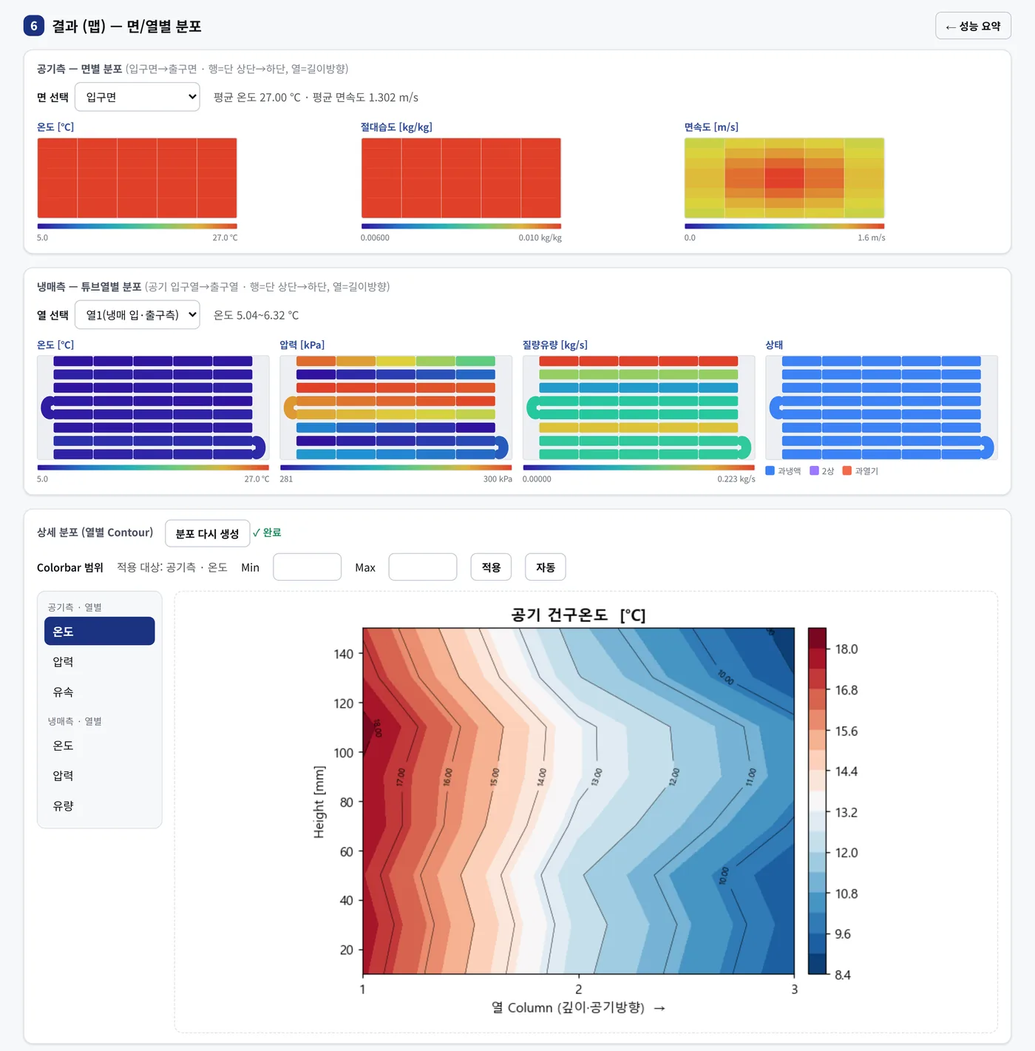
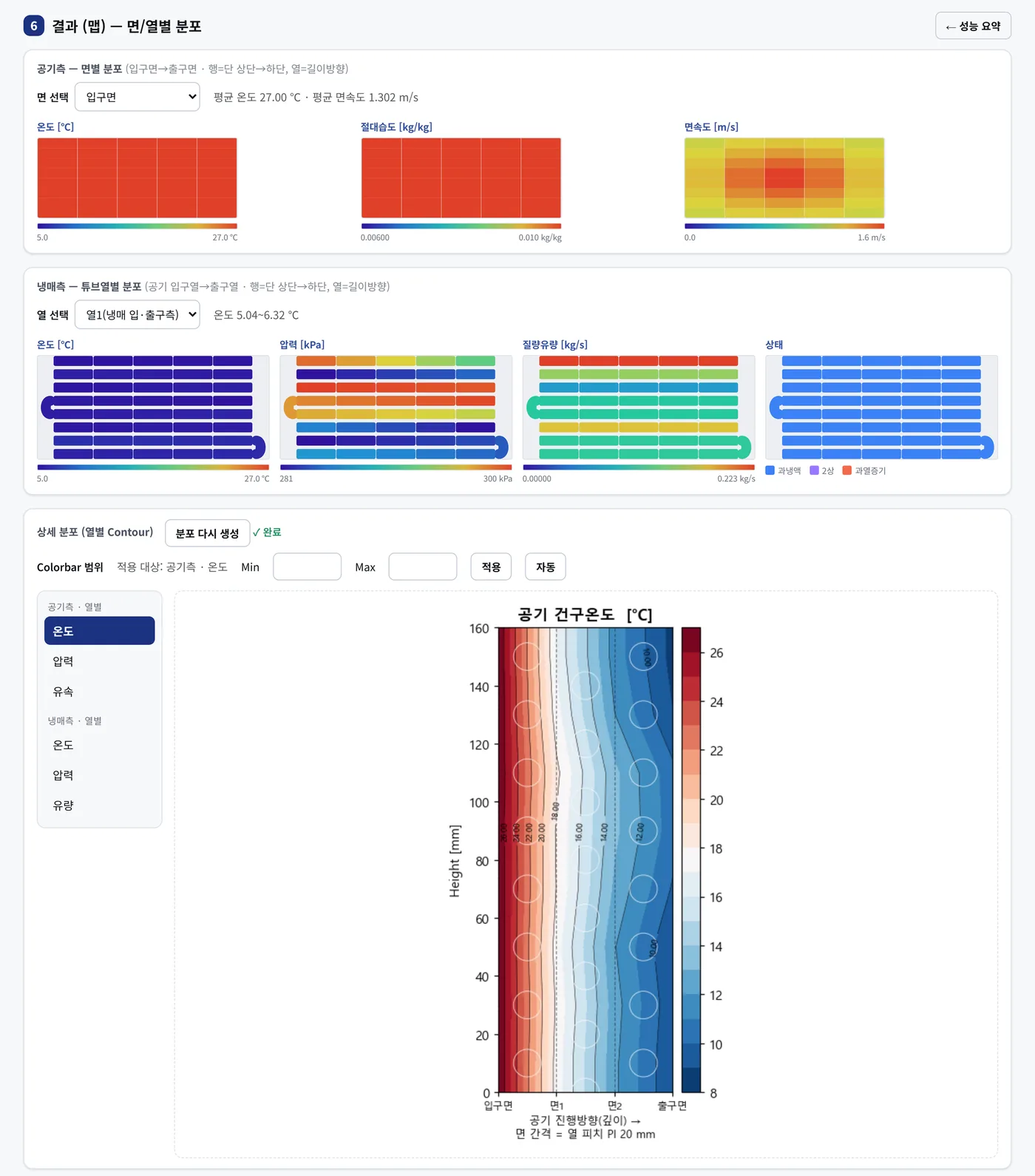
등록 없이 둘러보기·시작 화면 발급 요청 안내 · 체험판 표기 삭제 · 결과·모바일·유체 화면 교체
- 히어로·문의 절 안내: 접근코드 문의 → 시작 화면 [등록 없이 둘러보기] · [접근코드 발급 요청]
- 문의 절 안내문에서 '평가·교육용 체험판' 표기 삭제(이용 조건 줄·라이선스 문서는 유지)
- 화면 교체: ⑤ 결과 (성능)(KPI 3장·냉매 상태 과냉·출구 mf) · ⑥ 결과 (맵)(과열증기 범례·실제 치수 등고선)
  · ③ 유체 조건('템플릿' 표기·띄어쓰기) · 모바일 홈(인사말·현재 설계 카드 없음)
- 풍량 분포 변수에 C(중심이동 비율) 추가 · 튜토리얼 안내 한 줄 · '핀 피치' 띄어쓰기
- 영문 단계 이름을 앱과 같게(HX Dimension · Circuit · Fluid · Air Distribution · Result (Performance) · Result (Map))
- 모바일 흐름 절 설명문에 i18n 키(영문 전환 시 한국어로 남던 문제) · README 작동유체 70종

diff --git a/site-i18n.js b/site-i18n.js
@@ -30,7 +30,7 @@
     'hero.cta.app': 'Open the program ↗',
     'hero.cta.contact': 'Contact · collaboration',
     'hero.cta.features': 'See the features',
-    'hero.applink': '<b>hexcoil.kr</b> — runs in your browser, with nothing to install. An <b>access code</b> is required; send us your affiliation and intended use through <a href="#contact">Contact</a> and we will issue one.',
+    'hero.applink': '<b>hexcoil.kr</b> — runs in your browser, with nothing to install. Choose <b>Look around without registering</b> on the start page to see the screens and an example result first; running a calculation needs an <b>access code</b>. Enter your company, name and e-mail under [Request an access code] on the start page and we will e-mail one to you.',
 
     'stats.u.kind': '&nbsp;fluids', 'stats.u.case': '&nbsp;cases', 'stats.u.kind2': '&nbsp;models', 'stats.u.dir': '&nbsp;directions',
     'stats.fluids': 'Working fluids supported<br>natural refrigerants · air · brines included',
@@ -39,55 +39,55 @@
     'stats.grid': 'Grid-based analysis<br>local state in every cell',
 
     'flow.h': 'Design review finished in six steps',
-    'flow.p': 'Work down the order on the left of the screen and you go from geometry input to distribution maps.',
-    'step.geo.h': 'Geometry', 'step.geo.p': 'Tube and fin geometry<br>rows · tiers · pitches',
-    'step.cir.h': 'Refrigerant circuit', 'step.cir.p': 'Drag the tubing<br>split · merge',
-    'step.flu.h': 'Fluid conditions', 'step.flu.p': 'Air inlet state<br>70 working fluids',
-    'step.air.h': 'Airflow distribution', 'step.air.p': 'Fan non-uniformity<br>2D · 3D preview',
-    'step.res1.h': 'Results (performance)', 'step.res1.p': 'Performance summary<br>capacity · pressure drop',
-    'step.res2.h': 'Results (maps)', 'step.res2.p': 'Face/row distribution<br>colour maps',
+    'flow.p': 'Work down the order on the left of the screen and you go from geometry input to distribution maps. New to it? A <b>guided tutorial</b> (Korean · English) points you through each screen.',
+    'step.geo.h': 'HX Dimension', 'step.geo.p': 'Tube and fin geometry<br>rows · tiers · pitches',
+    'step.cir.h': 'Circuit', 'step.cir.p': 'Drag the tubing<br>split · merge',
+    'step.flu.h': 'Fluid', 'step.flu.p': 'Air inlet state<br>70 working fluids',
+    'step.air.h': 'Air Distribution', 'step.air.p': 'Fan non-uniformity<br>2D · 3D preview',
+    'step.res1.h': 'Result (Performance)', 'step.res1.p': 'Performance summary<br>capacity · pressure drop',
+    'step.res2.h': 'Result (Map)', 'step.res2.p': 'Face/row distribution<br>colour maps',
 
     'feat.h': 'Design freely,<br>read the results at a glance.',
     'feat.p': 'Build the geometry and the circuitry yourself, then compute performance under the conditions you set.',
 
-    'f1.h': 'Geometry — type a dimension, see it in 3D',
+    'f1.h': 'HX Dimension — type a dimension, see it in 3D',
     'f1.ul': '<li>Enter tube length, rows, tiers, pitches and outer diameter and the <b>3D model updates immediately</b>.</li>'
            + '<li>It is rendered to true scale, with L · W · H · OD and fin pitch shown as dimension lines.</li>'
            + '<li>The staggered layout and the tube cross-section (inner diameter) are drawn as well, so you can <b>check the tube arrangement by eye</b>.</li>'
            + '<li>Choose plain or louver fins and the louver dimensions (Lp · Lh) appear together with the matching correlations.</li>',
-    'f1.cap': '① Geometry — L · W · H · OD and fin pitch in 3D',
+    'f1.cap': '① HX Dimension — L · W · H · OD and fin pitch in 3D',
 
-    'f2.h': 'Refrigerant circuit — drawn by dragging',
+    'f2.h': 'Circuit — drawn by dragging',
     'f2.ul': '<li>Drag tubes to connect them and build <b>splits and merges</b> (acyclic circuits).</li>'
            + '<li>Loops and duplicate connections are checked as you draw, and tubes left unconnected become <b>independent single-tube circuits</b> automatically.</li>'
            + '<li>Flow distribution is either <b>ΔP equalisation (iterative self-distribution)</b> or an equal split.</li>',
-    'f2.cap': '② Refrigerant circuit — colour = circuit · ★ = inlet · U-bends solid/dashed',
+    'f2.cap': '② Circuit — colour = circuit · ★ = inlet · U-bends solid/dashed',
 
-    'f3.h': 'Fluid conditions — 70 working fluids',
+    'f3.h': 'Fluid — 70 working fluids',
     'f3.ul': '<li>The air inlet state is set from the dry-bulb temperature plus one of <b>wet-bulb temperature, relative humidity, humidity ratio, enthalpy or dew point</b>.</li>'
            + '<li>Pick the working fluid from <b>70</b> (water, air, R717, R744, R290, R410A, R134a, R1234yf, <b>EG/PG aqueous brines</b> and more) — properties come from CoolProp.</li>'
            + '<li>The fluid inlet is specified in one of four ways: <b>(1) pressure · temperature</b>, <b>(2) pressure · vapour quality</b>, <b>(3) pressure · enthalpy</b>, <b>(4) outlet pressure · enthalpy</b> — water uses all four just like a refrigerant, while brines use (1) only.</li>'
            + '<li>Single-phase and two-phase heat transfer and pressure drop correlations are chosen separately.</li>',
-    'f3.cap': '③ Fluid conditions — five ways to set the air inlet · 70 working fluids',
+    'f3.cap': '③ Fluid — five ways to set the air inlet · 70 working fluids',
 
-    'f4.h': 'Airflow distribution — fan non-uniformity included',
-    'f4.ul': '<li>The fan discharge profile — strong at the centre, weak at the edges — is reproduced with a <b>Gaussian model</b> (σ · floor · β).</li>'
+    'f4.h': 'Air Distribution — fan non-uniformity included',
+    'f4.ul': '<li>The fan discharge profile — strong at the centre, weak at the edges — is reproduced with a <b>Gaussian model</b> (σ · floor · β), and the centre shift ratio C moves the peak up or down.</li>'
            + '<li>Air flow is applied cell by cell across the inlet face.</li>'
            + '<li>Check the profile in the 2D/3D preview before it goes into the calculation.</li>',
-    'f4.cap': '④ Airflow distribution — 3D face velocity at the coil inlet · non-uniformity tuned with fan σ · floor · β',
+    'f4.cap': '④ Air Distribution — 3D face velocity at the coil inlet · non-uniformity tuned with fan σ · floor · β · C',
 
     'f5.h': 'Performance summary — prediction cell by cell',
     'f5.ul': '<li>The coil is <b>divided into a grid in three directions</b> (height, depth and length) and solved cell by cell.</li>'
            + '<li>Local heat transfer and pressure drop are computed for each cell.</li>'
            + '<li>Under wet-surface conditions the <b>condensate (dehumidification) rate</b> is obtained.</li>'
            + '<li>Results are presented together with a psychrometric chart, a P–h diagram and the flow split per circuit.</li>',
-    'f5.cap': '⑤ Results (performance) — summary · capacity · pressure drop · condensate',
+    'f5.cap': '⑤ Result (Performance) — summary · capacity · pressure drop · condensate',
 
-    'f6.h': 'Results (maps) — colour maps by face and row',
+    'f6.h': 'Result (Map) — colour maps by face and row',
     'f6.ul': '<li>Distributions are shown from the air inlet face through to the outlet face, row by row along the refrigerant tubes.</li>'
            + '<li>Temperature, humidity, face velocity, pressure, flow rate and phase are colour-coded so you can <b>see at a glance where the distribution differs most</b>.</li>'
            + '<li>Choose a face or a row, and redraw the detail as a contour plot.</li>',
-    'f6.cap': '⑥ Results (maps) — distribution colour maps by face and row',
+    'f6.cap': '⑥ Result (Map) — distribution colour maps by face and row',
 
     'mob.h': 'The whole design on a phone',
     'mob.p': 'The phone screen edits <b>geometry, circuitry, fluids, correlations and airflow</b> and shows the <b>performance summary and the face/row distributions</b>. Pick an example case and everything is filled in at once. It runs <b>the same calculation engine as the desktop</b>, so the results do not differ. Add it to your home screen and it opens like an app, without an address bar.',
@@ -144,8 +144,8 @@
     'ct.who2': 'Chanho Song, Principal Researcher',
     'ct.ask': '<li>Institution · department</li><li>Your role</li><li>Intended use (design review / research / teaching)</li>',
     'ct.mail': 'Send an e-mail',
-    'ct.app': 'Program address <a href="https://hexcoil.kr" target="_blank" rel="noopener">hexcoil.kr</a> — an <b>access code</b> is required to sign in. Send us a message above and we will issue one.',
-    'ct.trial': 'The edition offered today is an <strong style="color:#fff">evaluation and educational trial</strong> — for feature review, research and teaching, provided through an access code with a limited number of calculations and a limited validity period. Commercial use such as product design or bidding requires a separate licence agreement.',
+    'ct.app': 'Program address <a href="https://hexcoil.kr" target="_blank" rel="noopener">hexcoil.kr</a> — take a look straight away with <b>Look around without registering</b>. The <b>access code</b> needed for calculations can be requested on the start page under [Request an access code].',
+    'ct.trial': 'Access codes are issued for feature review, research and teaching, with a set number of calculations and a validity period. Commercial use such as product design or bidding requires a separate licence agreement.',
     'ct.work.h': 'What we can do together',
     'ct.w.pred.h': 'Performance prediction review',
     'ct.w.pred.p': 'We predict the performance of your heat exchanger geometry and interpret the results with you.',

diff --git a/m.html b/m.html
@@ -276,9 +276,7 @@ html[lang="en"] .hdr .ctr, html[lang="en"] .hdr .div{display:none}
          data-i18n="hero.cta.app">프로그램 접속 ↗</a>
       <a class="btn btn-ghost" href="#contact" data-i18n="hero.cta.contact">문의 · 협력 제안</a>
       <a class="btn btn-ghost" href="#features" data-i18n="hero.cta.features">기능 살펴보기</a>
-      <p class="applink" data-i18n="hero.applink"><b>hexcoil.kr</b> — 설치 없이 브라우저에서 바로 씁니다.
-         접속에는 <b>접근코드</b>가 필요하며, 아래 <a href="#contact">문의</a>로 소속·사용 목적을
-         보내주시면 발급해 드립니다.</p>
+      <p class="applink" data-i18n="hero.applink"><b>hexcoil.kr</b> — 설치 없이 브라우저에서 바로 씁니다. 시작 화면의 <b>등록 없이 둘러보기</b>로 화면과 예제 결과를 먼저 살펴보실 수 있고, 계산을 실행하려면 <b>접근코드</b>가 필요합니다. 시작 화면의 [접근코드 발급 요청]에 회사·이름·이메일을 적어 주시면 이메일로 보내드립니다.</p>
     </div>
   </div>
 
@@ -297,7 +295,7 @@ html[lang="en"] .hdr .ctr, html[lang="en"] .hdr .div{display:none}
     <div class="wrap">
       <p class="kicker">Workflow</p>
       <h2 data-i18n="flow.h">여섯 단계로 끝나는 설계 검토</h2>
-      <p class="sub">화면 왼쪽 순서대로 진행하면 형상 입력에서 분포 해석까지 이어집니다.</p>
+      <p class="sub" data-i18n="flow.p">화면 왼쪽 순서대로 진행하면 형상 입력에서 분포 해석까지 이어집니다. 처음이라면 화면 위를 짚어 가며 안내하는 <b>튜토리얼</b>(한국어·English)을 따라 해 보세요.</p>
       <div class="steps">
         <div class="step"><div class="num">1</div><h3 data-i18n="step.geo.h">형상 입력</h3><p data-i18n="step.geo.p">튜브·핀 형상<br>열수·단수·피치</p></div>
         <div class="step"><div class="num">2</div><h3 data-i18n="step.cir.h">냉매 회로</h3><p data-i18n="step.cir.p">배관 드래그<br>분지·합지</p></div>
@@ -328,14 +326,14 @@ html[lang="en"] .hdr .ctr, html[lang="en"] .hdr .div{display:none}
         <h3 data-i18n="f1.h">형상 입력 — 치수를 넣으면 3D로 즉시 확인</h3>
         <ul data-i18n="f1.ul">
           <li>튜브 길이·열수·단수·피치·외경을 넣으면 <b>3D 형상이 곧바로 갱신</b>됩니다.</li>
-          <li>실제 치수 비율로 렌더링하고 L·W·H·OD·핀피치를 치수선으로 함께 표시합니다.</li>
+          <li>실제 치수 비율로 렌더링하고 L·W·H·OD·핀 피치를 치수선으로 함께 표시합니다.</li>
           <li>엇갈림 배열과 관 단면(내경)까지 그려 <b>배관 배열을 눈으로 확인</b>합니다.</li>
           <li>평판핀·루버핀을 고르면 루버 치수(Lp·Lh)와 해당 상관식이 함께 나타납니다.</li>
         </ul>
         <figure class="shot">
           <img src="assets/dimension.webp" width="1200" height="940" loading="lazy"
                alt="형상 입력 화면 — 핀튜브 열교환기가 3차원으로 렌더링되고 길이·폭·높이·외경 치수선이 표시된다.">
-          <figcaption data-i18n="f1.cap">① 형상 입력 — L · W · H · OD · 핀피치를 3D로 확인</figcaption>
+          <figcaption data-i18n="f1.cap">① 형상 입력 — L · W · H · OD · 핀 피치를 3D로 확인</figcaption>
         </figure>
       </div>
 
@@ -374,7 +372,7 @@ html[lang="en"] .hdr .ctr, html[lang="en"] .hdr .div{display:none}
         <span class="idx">4</span>
         <h3 data-i18n="f4.h">풍량 분포 — 팬 비균일 반영</h3>
         <ul data-i18n="f4.ul">
-          <li>중앙은 강하고 가장자리는 약한 팬 토출 분포를 <b>가우시안 모델</b>(σ·floor·β)로 모사합니다.</li>
+          <li>중앙은 강하고 가장자리는 약한 팬 토출 분포를 <b>가우시안 모델</b>(σ·floor·β)로 모사하고, 중심이동 비율 C로 분포의 중심을 위아래로 옮깁니다.</li>
           <li>입구면 셀별로 공기 유량을 차등 적용합니다.</li>
           <li>2D·3D 프리뷰로 분포를 확인한 뒤 계산에 넣습니다.</li>
         </ul>
@@ -384,7 +382,7 @@ html[lang="en"] .hdr .ctr, html[lang="en"] .hdr .div{display:none}
                 화면 전체를 오리면 오른쪽 아래가 크게 빈다 → 3D 원본을 쓴다. -->
           <img src="assets/airflow.webp" width="1400" height="894" loading="lazy"
                alt="풍량 분포 3D 화면 — 코일 입구면의 면속도가 3차원 곡면으로 표시되고 중앙이 빠르고 가장자리가 느리다.">
-          <figcaption data-i18n="f4.cap">④ 풍량 분포 — 코일 입구면 면속도 3D · 팬 σ · floor · β 로 비균일 조절</figcaption>
+          <figcaption data-i18n="f4.cap">④ 풍량 분포 — 코일 입구면 면속도 3D · 팬 σ · floor · β · C로 비균일 조절</figcaption>
         </figure>
       </div>
 
@@ -413,7 +411,7 @@ html[lang="en"] .hdr .ctr, html[lang="en"] .hdr .div{display:none}
           <li>면/열별을 골라 보고, 상세 분포는 컨투어로 다시 그립니다.</li>
         </ul>
         <figure class="shot">
-          <img src="assets/result2.webp" width="1400" height="1421" loading="lazy"
+          <img src="assets/result2.webp" width="1400" height="1590" loading="lazy"
                alt="면·열별 분포 화면 — 열교환기 단면이 온도에 따라 색으로 구분된 컬러맵으로 표시된다.">
           <figcaption data-i18n="f6.cap">⑥ 결과 (맵) — 면/열별 분포 컬러맵</figcaption>
         </figure>
@@ -527,15 +525,8 @@ html[lang="en"] .hdr .ctr, html[lang="en"] .hdr .div{display:none}
       </ul>
       <a class="btn btn-onblue" href="mailto:jwyoo@kimm.re.kr,sch@kimm.re.kr?subject=%5BKIMM-HEX%20Coil%5D%20%EB%AC%B8%EC%9D%98" data-i18n="ct.mail">메일 보내기</a>
       <!--  2026-09-17: 상시 서버 주소 — 메일을 쓰기 전에 주소가 먼저 보이게. -->
-      <p class="appaddr" data-i18n="ct.app">
-        프로그램 주소 <a href="https://hexcoil.kr" target="_blank" rel="noopener">hexcoil.kr</a> —
-        접속에는 <b>접근코드</b>가 필요합니다. 위로 문의를 보내주시면 발급해 드립니다.
-      </p>
-      <p class="trial" data-i18n="ct.trial">
-        현재 제공되는 판은 <strong>평가·교육용 체험판</strong>입니다 —
-        기능 확인·연구·교육 목적으로, 계산 횟수와 유효기간이 제한된 접속코드로 제공됩니다.
-        제품 설계·수주 등 영리 목적 사용은 별도 이용 계약이 필요합니다.
-      </p>
+      <p class="appaddr" data-i18n="ct.app">프로그램 주소 <a href="https://hexcoil.kr" target="_blank" rel="noopener">hexcoil.kr</a> — <b>등록 없이 둘러보기</b>로 바로 살펴보실 수 있습니다. 계산에 필요한 <b>접근코드</b>는 시작 화면의 [접근코드 발급 요청]으로 받으실 수 있습니다.</p>
+      <p class="trial" data-i18n="ct.trial">접근코드는 기능 확인·연구·교육 목적으로 발급되며, 계산 횟수와 유효기간이 정해져 있습니다. 제품 설계·수주 등 영리 목적 사용은 별도 이용 계약이 필요합니다.</p>
       <h3 class="with" data-i18n="ct.work.h">함께 할 수 있는 일</h3>
       <div class="cardbox"><h3 data-i18n="ct.w.pred.h">성능 예측 검토</h3><p data-i18n="ct.w.pred.p">보유 열교환기 형상의 성능을 예측하고 결과를 함께 해석합니다.</p></div>
       <div class="cardbox"><h3 data-i18n="ct.w.impr.h">설계 개선</h3><p data-i18n="ct.w.impr.p">회로 배열 대안을 비교해 개선 방향을 찾습니다.</p></div>

diff --git a/index.html b/index.html
@@ -463,10 +463,7 @@ h2{
         <a class="btn btn-ghost" href="#contact" data-i18n="hero.cta.contact">문의 · 협력 제안</a>
         <a class="btn btn-ghost" href="#features" data-i18n="hero.cta.features">기능 살펴보기</a>
       </div>
-      <p class="applink" data-i18n="hero.applink">
-        <b>hexcoil.kr</b> — 설치 없이 브라우저에서 바로 씁니다. 접속에는 <b>접근코드</b>가 필요하며,
-        아래 <a href="#contact">문의</a>로 소속·사용 목적을 보내주시면 발급해 드립니다.
-      </p>
+      <p class="applink" data-i18n="hero.applink"><b>hexcoil.kr</b> — 설치 없이 브라우저에서 바로 씁니다. 시작 화면의 <b>등록 없이 둘러보기</b>로 화면과 예제 결과를 먼저 살펴보실 수 있고, 계산을 실행하려면 <b>접근코드</b>가 필요합니다. 시작 화면의 [접근코드 발급 요청]에 회사·이름·이메일을 적어 주시면 이메일로 보내드립니다.</p>
       <!--  2026-09-03(7차): 히어로의 **결과 화면 컷(assets/hero.webp = Result ① 성능요약)** 을 뺐다.
             모바일 판(m.html)에는 없던 것이라 두 판의 읽는 순서가 어긋났고, 기능 절에서
             ⑤ 성능요약 화면을 다시 보여주므로 같은 그림이 지면 위아래로 두 번 나왔다.
@@ -491,7 +488,7 @@ h2{
       <div class="sec-head center">
         <p class="kicker">Workflow</p>
         <h2 data-i18n="flow.h">여섯 단계로 끝나는 설계 검토</h2>
-        <p data-i18n="flow.p">화면 왼쪽 순서대로 진행하면 형상 입력에서 분포 해석까지 이어집니다.</p>
+        <p data-i18n="flow.p">화면 왼쪽 순서대로 진행하면 형상 입력에서 분포 해석까지 이어집니다. 처음이라면 화면 위를 짚어 가며 안내하는 <b>튜토리얼</b>(한국어·English)을 따라 해 보세요.</p>
       </div>
       <div class="steps">
         <div class="step"><div class="num">1</div><h3 data-i18n="step.geo.h">형상 입력</h3><p data-i18n="step.geo.p">튜브·핀 형상<br>열수·단수·피치</p></div>
@@ -526,7 +523,7 @@ h2{
           <h3 data-i18n="f1.h">형상 입력 — 치수를 넣으면 3D로 즉시 확인</h3>
           <ul data-i18n="f1.ul">
             <li>튜브 길이·열수·단수·피치·외경을 넣으면 <b>3D 형상이 곧바로 갱신</b>됩니다.</li>
-            <li>실제 치수 비율로 렌더링하고 L·W·H·OD·핀피치를 치수선으로 함께 표시합니다.</li>
+            <li>실제 치수 비율로 렌더링하고 L·W·H·OD·핀 피치를 치수선으로 함께 표시합니다.</li>
             <li>엇갈림 배열과 관 단면(내경)까지 그려 <b>배관 배열을 눈으로 확인</b>합니다.</li>
             <li>평판핀·루버핀을 고르면 루버 치수(Lp·Lh)와 해당 상관식이 함께 나타납니다.</li>
           </ul>
@@ -534,7 +531,7 @@ h2{
         <figure class="shot">
           <img src="assets/dimension.webp" width="1200" height="940" loading="lazy"
                alt="형상 입력 화면 — 핀튜브 열교환기가 3차원으로 렌더링되고 길이·폭·높이·외경 치수선이 표시된다.">
-          <figcaption data-i18n="f1.cap">① 형상 입력 — L · W · H · OD · 핀피치를 3D로 확인</figcaption>
+          <figcaption data-i18n="f1.cap">① 형상 입력 — L · W · H · OD · 핀 피치를 3D로 확인</figcaption>
         </figure>
       </div>
 
@@ -578,7 +575,7 @@ h2{
           <span class="idx">4</span>
           <h3 data-i18n="f4.h">풍량 분포 — 팬 비균일 반영</h3>
           <ul data-i18n="f4.ul">
-            <li>중앙은 강하고 가장자리는 약한 팬 토출 분포를 <b>가우시안 모델</b>(σ·floor·β)로 모사합니다.</li>
+            <li>중앙은 강하고 가장자리는 약한 팬 토출 분포를 <b>가우시안 모델</b>(σ·floor·β)로 모사하고, 중심이동 비율 C로 분포의 중심을 위아래로 옮깁니다.</li>
             <li>입구면 셀별로 공기 유량을 차등 적용합니다.</li>
             <li>2D·3D 프리뷰로 분포를 확인한 뒤 계산에 넣습니다.</li>
           </ul>
@@ -589,7 +586,7 @@ h2{
                 화면 전체를 오리면 오른쪽 아래가 크게 빈다 → 3D 원본을 쓴다. -->
           <img src="assets/airflow.webp" width="1400" height="894" loading="lazy"
                alt="풍량 분포 3D 화면 — 코일 입구면의 면속도가 3차원 곡면으로 표시되고 중앙이 빠르고 가장자리가 느리다.">
-          <figcaption data-i18n="f4.cap">④ 풍량 분포 — 코일 입구면 면속도 3D · 팬 σ · floor · β 로 비균일 조절</figcaption>
+          <figcaption data-i18n="f4.cap">④ 풍량 분포 — 코일 입구면 면속도 3D · 팬 σ · floor · β · C로 비균일 조절</figcaption>
         </figure>
       </div>
 
@@ -622,7 +619,7 @@ h2{
           </ul>
         </div>
         <figure class="shot">
-          <img src="assets/result2.webp" width="1400" height="1421" loading="lazy"
+          <img src="assets/result2.webp" width="1400" height="1590" loading="lazy"
                alt="면·열별 분포 화면 — 열교환기 단면이 온도에 따라 색으로 구분된 컬러맵으로 표시된다.">
           <figcaption data-i18n="f6.cap">⑥ 결과 (맵) — 면/열별 분포 컬러맵</figcaption>
         </figure>
@@ -772,15 +769,8 @@ h2{
                href="mailto:jwyoo@kimm.re.kr,sch@kimm.re.kr?subject=%5BKIMM-HEX%20Coil%5D%20%EB%AC%B8%EC%9D%98" data-i18n="ct.mail">메일 보내기</a>
           </div>
           <!--  2026-09-17: 상시 서버 주소를 문의 상자 안에도 둔다 — 메일을 쓰기 전에 주소가 먼저 보이게. -->
-          <p class="appaddr" data-i18n="ct.app">
-            프로그램 주소 <a href="https://hexcoil.kr" target="_blank" rel="noopener">hexcoil.kr</a> —
-            접속에는 <b>접근코드</b>가 필요합니다. 위로 문의를 보내주시면 발급해 드립니다.
-          </p>
-          <p style="margin:18px 0 0;font-size:13px;line-height:1.7;color:rgba(255,255,255,.72)" data-i18n="ct.trial">
-            현재 제공되는 판은 <strong style="color:#fff">평가·교육용 체험판</strong>입니다 —
-            기능 확인·연구·교육 목적으로, 계산 횟수와 유효기간이 제한된 접속코드로 제공됩니다.
-            제품 설계·수주 등 영리 목적 사용은 별도 이용 계약이 필요합니다.
-          </p>
+          <p class="appaddr" data-i18n="ct.app">프로그램 주소 <a href="https://hexcoil.kr" target="_blank" rel="noopener">hexcoil.kr</a> — <b>등록 없이 둘러보기</b>로 바로 살펴보실 수 있습니다. 계산에 필요한 <b>접근코드</b>는 시작 화면의 [접근코드 발급 요청]으로 받으실 수 있습니다.</p>
+          <p style="margin:18px 0 0;font-size:13px;line-height:1.7;color:rgba(255,255,255,.72)" data-i18n="ct.trial">접근코드는 기능 확인·연구·교육 목적으로 발급되며, 계산 횟수와 유효기간이 정해져 있습니다. 제품 설계·수주 등 영리 목적 사용은 별도 이용 계약이 필요합니다.</p>
         </div>
         <div>
           <h3 style="margin:0 0 18px; font-size:19px; font-weight:700; color:#fff; letter-spacing:-.02em" data-i18n="ct.work.h">

diff --git a/README.md b/README.md
@@ -55,7 +55,7 @@ capture_ui.py → build_assets.py → 홍보자료/assets/*.png → build_site_a
 
 - 색·타이포는 `index.html` 상단 `:root` 토큰 (KIMM Design System 값)
 - 문구 출처: `홍보자료/KIMM-HEX-Coil_리플릿_A4양면.html`, `KIMM-HEX-Coil_잡지게재_A4단면.html`
-  — **세 산출물의 수치·문구는 항상 같아야 한다**(작동유체 58종 · 상관식 13종 · 실험 124케이스)
+  — **세 산출물의 수치·문구는 항상 같아야 한다**(작동유체 70종 · 상관식 13종 · 실험 124케이스)
 - 구 브랜드 페이지는 `../_이전버전_KoilForge/koilforge-site/` 에 보존
 
 ## 이 저장소에 넣지 말 것
